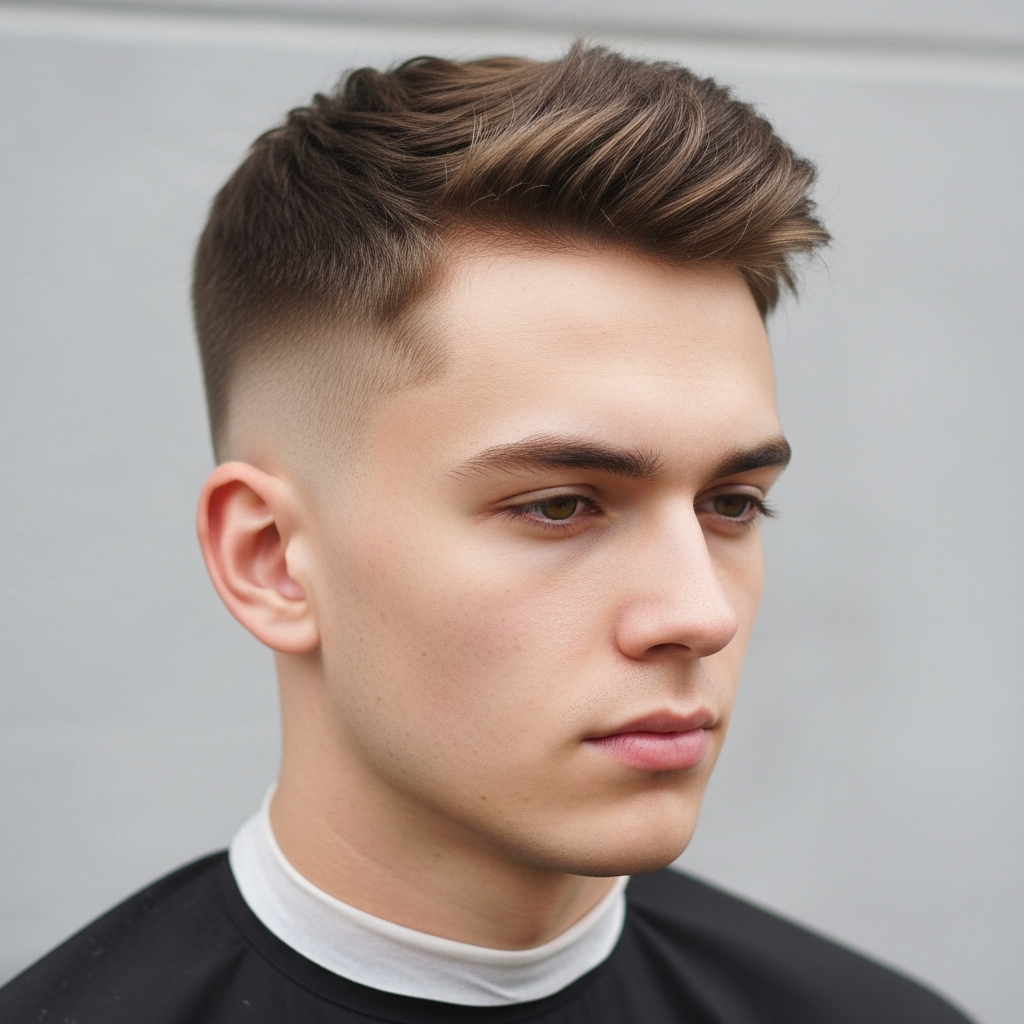
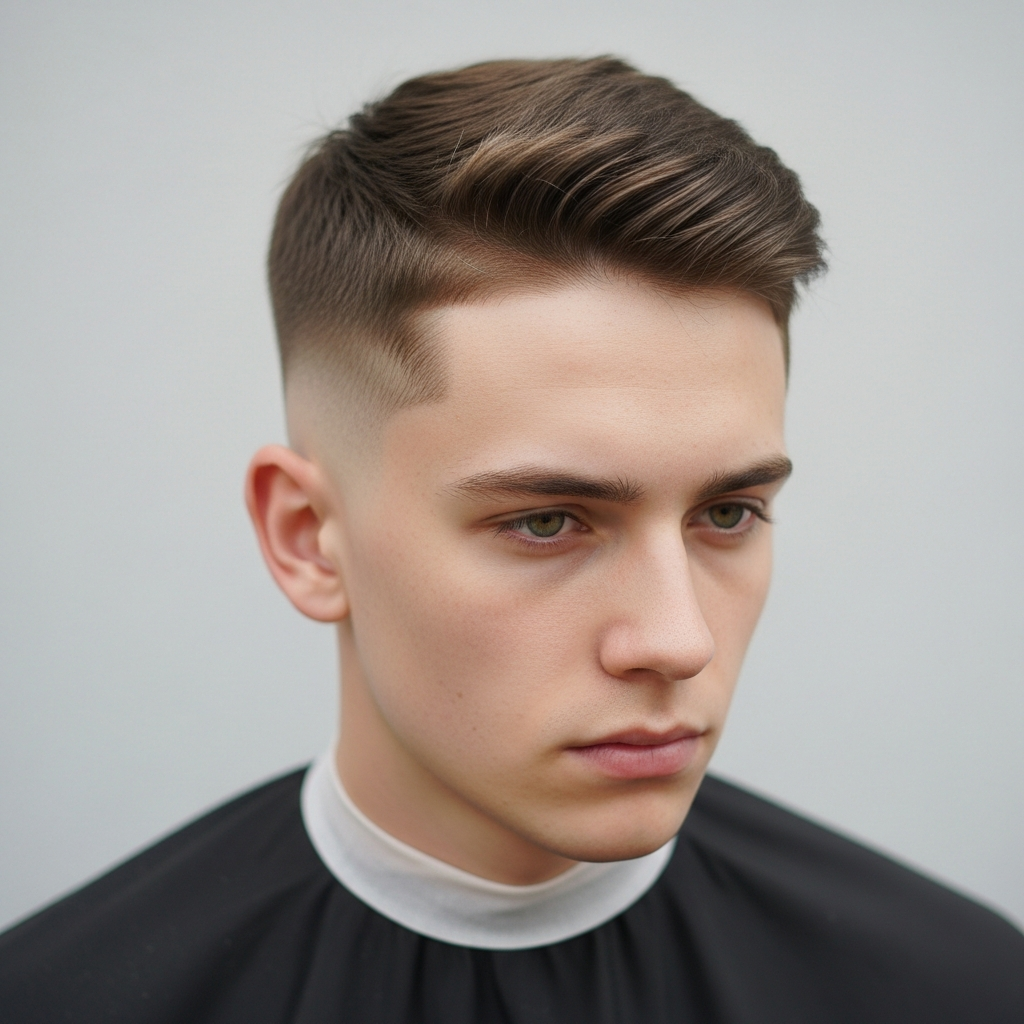
image test saved

diff --git a/Haircut.js b/Haircut.js
@@ -1,35 +1,31 @@
-// Gemini package
-import {GoogleGenAI} from "@google/genai";
-//import dotenv to load environment variables from .env file
+// ✅ Correct Gemini package
+import { GoogleGenAI } from "@google/genai";
 import dotenv from "dotenv";
-dotenv.config();
-//import file system module to write image files
 import fs from "fs";
-//creating an instance of GoogleGenAI, providing apiKey and model parameters
-const ai = new GoogleGenAI({
-    apiKey: process.env.MY_API_KEY,
-});
-//make first request from API
-async function APIRequest() {
-    const response = await ai.models.generateImages({
-        model: "imagen-4.0-generate-001",
-        prompt: "A natural photo of me with a fresh razor fade haircut, casual style, same facial expression, realistic lighting, natural tones, no retouch, smooth skin texture, realistic photo effect",
-        config:{
-            numberOfImages:4,
-        }
-    })
-    //set index to get the first image from the response
+
+dotenv.config();
+
+const AI = new GoogleGenAI({ apiKey: process.env.MY_API_KEY });
+async function GenerateNewHaircut() {
+  try {
+    const response = await AI.models.generateImages({
+    model: 'imagen-4.0-generate-001',
+    prompt: 'a realistic photo of me with a clean razor fade haircut, natural lighting, casual look, same outfit and background,  subtle enhancement, looks like a real photo not edited, natural hair texture, realistic shadows and details. Do not modify my face.',
+    config: {
+      numberOfImages: 4,
+    },
+  });
     let index = 0;
-    //iterate through the images in the response
-    for(const generateImage of response.generatedImages){
-        //define byte size
-        let imgByte = generateImage.image.imageBytes;
-        //convert byte size to buffer
-        let buffer = Buffer.from(imgByte,'base64');
-        //write file to local directory to create image generated by API
-        fs.writeFileSync(`HaircutImage${index}.png`,buffer);
-        console.log(`Image ${index} saved.`);
-        index++;
+    for (const generated of response.generatedImages) {
+      const imgBase64 = generated.image.imageBytes;
+      const buffer = Buffer.from(imgBase64, "base64");
+      fs.writeFileSync(`HaircutImage${index}.png`, buffer);
+      console.log(`✅ Image ${index} saved.`);
+      index++;
     }
+  } catch (error) {
+    console.error("❌ Error generating haircut image:", error);
+  }
 }
-APIRequest();
+
+GenerateNewHaircut();
